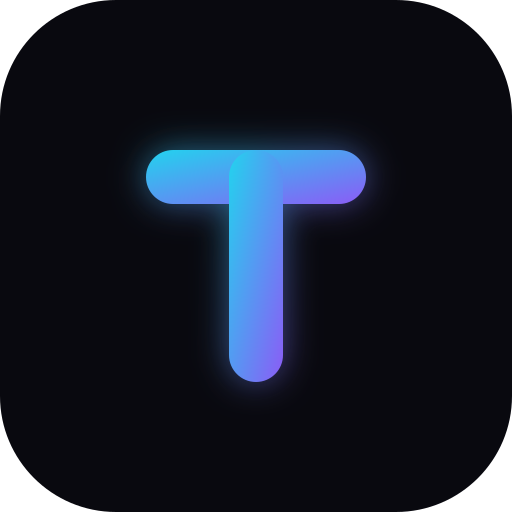
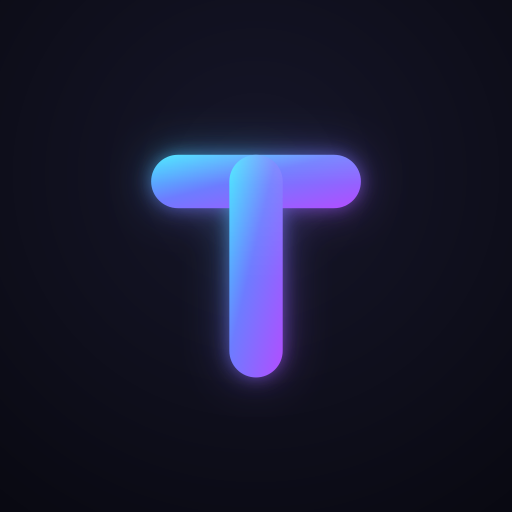
Updates

diff --git a/sw.js b/sw.js
@@ -1,1 +1,1 @@
-if(!self.define){let e,i={};const n=(n,s)=>(n=new URL(n+".js",s).href,i[n]||new Promise(i=>{if("document"in self){const e=document.createElement("script");e.src=n,e.onload=i,document.head.appendChild(e)}else e=n,importScripts(n),i()}).then(()=>{let e=i[n];if(!e)throw new Error(`Module ${n} didn’t register its module`);return e}));self.define=(s,r)=>{const o=e||("document"in self?document.currentScript.src:"")||location.href;if(i[o])return;let c={};const t=e=>n(e,o),d={module:{uri:o},exports:c,require:t};i[o]=Promise.all(s.map(e=>d[e]||t(e))).then(e=>(r(...e),c))}}define(["./workbox-9c191d2f"],function(e){"use strict";self.skipWaiting(),e.clientsClaim(),e.precacheAndRoute([{url:"registerSW.js",revision:"5774d2f608f660169cdad26f1753c22e"},{url:"index.html",revision:"afdcd6fe2370aedf60370018372c86b3"},{url:"assets/index-DtCUVKnD.css",revision:null},{url:"assets/index-Bu0ohcI4.js",revision:null},{url:"apple-touch-icon.png",revision:"e31d587b1048f1abc97ff5c09cac9bb8"},{url:"icon.svg",revision:"150f0bfb62b65bd4d0976449dd448611"},{url:"maskable-512.png",revision:"57646f252c519f9e3a0d00296d16d08e"},{url:"pwa-192.png",revision:"69be4b1e460f05bb9dcec9f3c4206ab6"},{url:"pwa-512.png",revision:"57646f252c519f9e3a0d00296d16d08e"},{url:"manifest.webmanifest",revision:"96c44d650cc7215166e61eb741ac0760"}],{}),e.cleanupOutdatedCaches(),e.registerRoute(new e.NavigationRoute(e.createHandlerBoundToURL("index.html")))});
+if(!self.define){let e,i={};const n=(n,s)=>(n=new URL(n+".js",s).href,i[n]||new Promise(i=>{if("document"in self){const e=document.createElement("script");e.src=n,e.onload=i,document.head.appendChild(e)}else e=n,importScripts(n),i()}).then(()=>{let e=i[n];if(!e)throw new Error(`Module ${n} didn’t register its module`);return e}));self.define=(s,r)=>{const o=e||("document"in self?document.currentScript.src:"")||location.href;if(i[o])return;let c={};const t=e=>n(e,o),l={module:{uri:o},exports:c,require:t};i[o]=Promise.all(s.map(e=>l[e]||t(e))).then(e=>(r(...e),c))}}define(["./workbox-9c191d2f"],function(e){"use strict";self.skipWaiting(),e.clientsClaim(),e.precacheAndRoute([{url:"registerSW.js",revision:"5774d2f608f660169cdad26f1753c22e"},{url:"index.html",revision:"afdcd6fe2370aedf60370018372c86b3"},{url:"assets/index-DtCUVKnD.css",revision:null},{url:"assets/index-Bu0ohcI4.js",revision:null},{url:"apple-touch-icon.png",revision:"2616aeb3c1e7428b0cfe6c9f683e7129"},{url:"icon.svg",revision:"0fe6535bfb62a7e04c60e17749b8e0a0"},{url:"maskable-512.png",revision:"ceb692fe7edac644efcd919a2bd9b30e"},{url:"pwa-192.png",revision:"6d341760dde800b06200c334a990f187"},{url:"pwa-512.png",revision:"9a25b2b94f44e0b484a2d9967365de33"},{url:"manifest.webmanifest",revision:"96c44d650cc7215166e61eb741ac0760"}],{}),e.cleanupOutdatedCaches(),e.registerRoute(new e.NavigationRoute(e.createHandlerBoundToURL("index.html")))});
